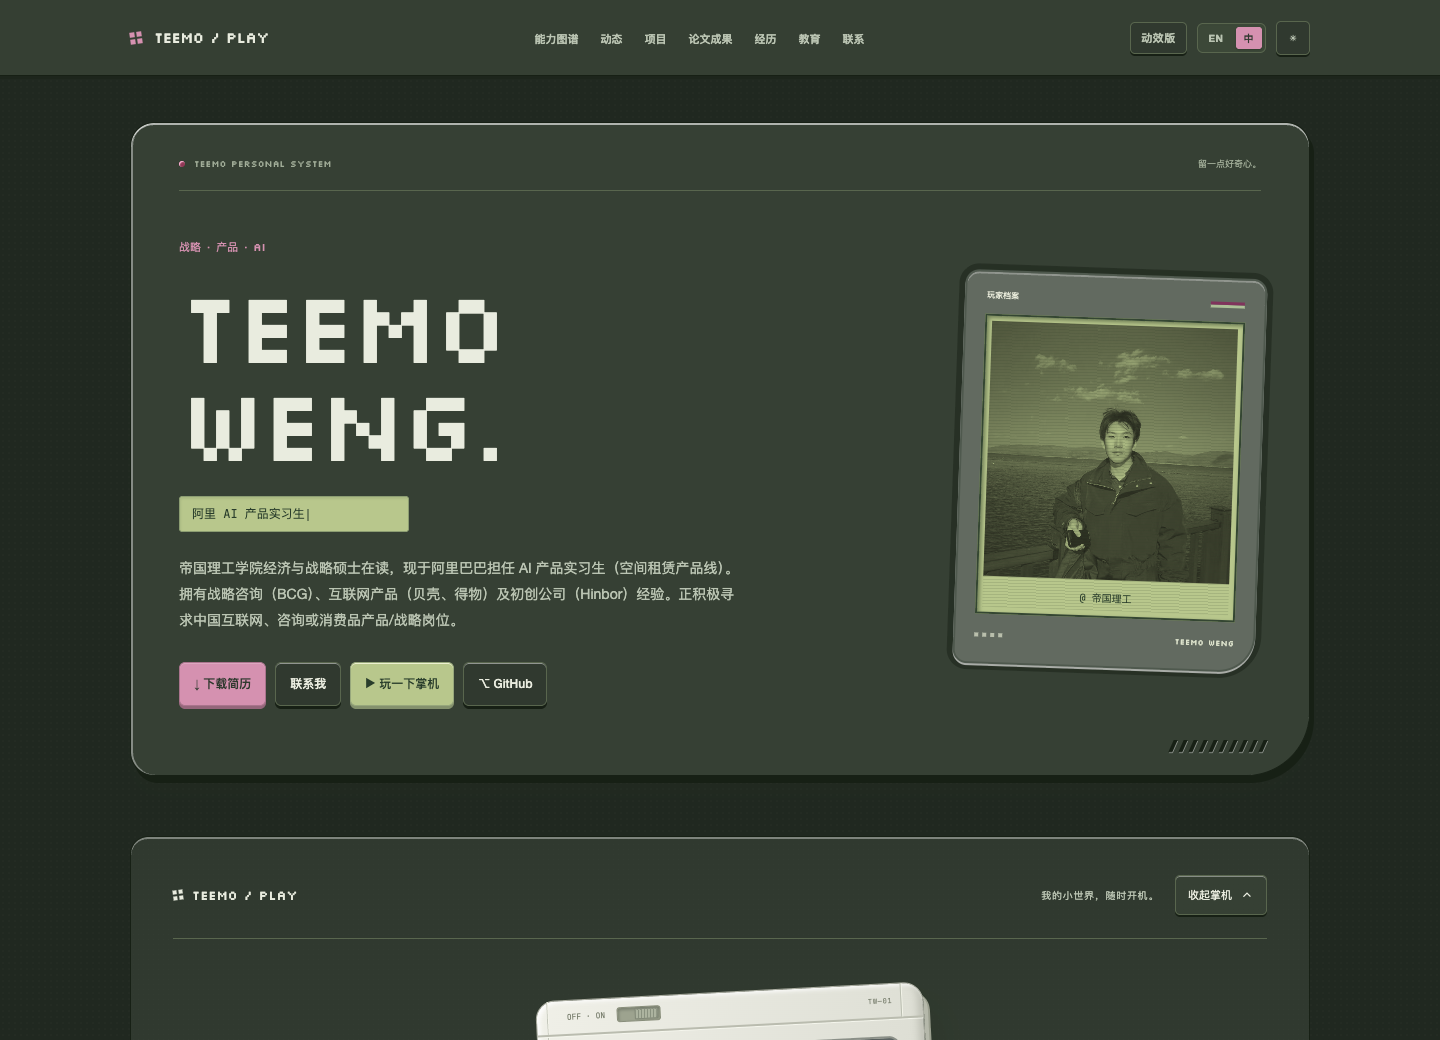
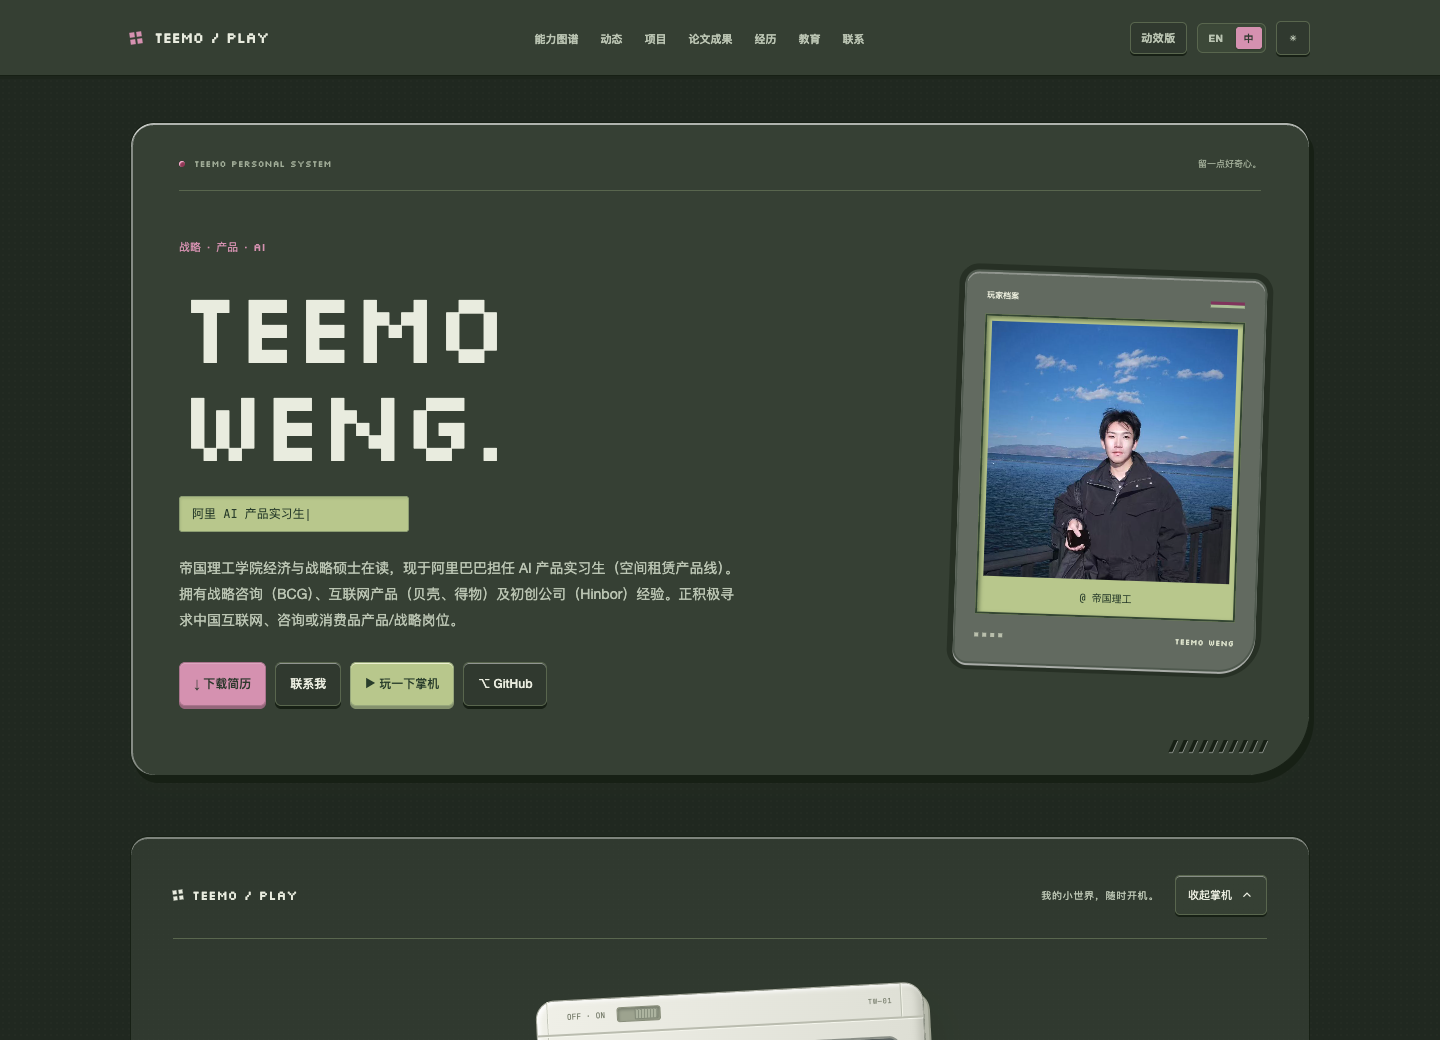
fix: preserve original portrait colors in pocket review

Changed region(s): [[0.6562, 0.3077, 0.875, 0.5538]]

diff --git a/index.html b/index.html
@@ -1131,9 +1131,9 @@ footer span { color: var(--accent); }
 .pocket-homepage .profile-caption{display:flex;align-items:center;justify-content:space-between;gap:12px;padding:0 1px 13px;color:#eef0df;font:8px var(--pixel)}
 .pocket-homepage .profile-caption i{width:34px;height:3px;background:#80345c;box-shadow:0 3px 0 #adc198}
 .pocket-homepage .avatar-wrap{width:100%;height:auto;padding:5px;background:var(--lcd);border:2px solid #344632;box-shadow:inset 2px 2px 4px #17251570;border-radius:0;overflow:hidden}
-.pocket-homepage .avatar-wrap::before{inset:5px;z-index:1;pointer-events:none;border:0;border-radius:0;animation:none;opacity:.14;background:repeating-linear-gradient(0deg,#33422b 0 1px,transparent 1px 3px)}
+.pocket-homepage .avatar-wrap::before{display:none}
 .pocket-homepage .avatar-wrap::after{display:none}
-.pocket-homepage .avatar-wrap img{display:block;width:100%;height:255px;border-radius:0;border:0;object-fit:cover;filter:grayscale(1);mix-blend-mode:multiply;opacity:.82}
+.pocket-homepage .avatar-wrap img{display:block;width:100%;height:255px;border-radius:0;border:0;object-fit:cover;filter:none;mix-blend-mode:normal;opacity:1}
 .pocket-homepage .avatar-badge{position:relative;bottom:auto;right:auto;z-index:2;background:transparent;color:var(--lcd-ink);border-radius:0;padding:11px 5px 6px;white-space:normal;font:10px 'JetBrains Mono','PingFang SC',monospace;text-align:center}
 .pocket-homepage .profile-grille{display:flex;align-items:center;gap:4px;margin-top:16px;color:#dee4cd}
 .pocket-homepage .profile-grille i{width:4px;height:4px;background:currentColor;opacity:.7}

diff --git a/docs/pocket-system-review.md b/docs/pocket-system-review.md
@@ -12,11 +12,11 @@
 
 - 颜色：灰绿底色 `#e6e7df`、奶油灰机身 `#eeeee4`、墨绿文字 `#27352c`、LCD 绿 `#b8c78c`、屏幕墨色 `#293d2b`、紫红按键 `#80345c`。深色模式沿用相同材料关系。
 - 字体：自托管 Silkscreen 用于姓名、品牌及少量短标签；正文使用清楚的系统中英文字体，长文不使用像素字体。
-- 布局：首屏机身面板内左侧介绍、右侧 LCD 档案照，四个操作按钮保持一行。移动端依次展示介绍与档案照。
+- 布局：首屏机身面板内左侧介绍、右侧原色照片置于掌机相框，四个操作按钮保持一行。移动端依次展示介绍与照片。照片已去掉滤镜和扫描线，保留掌机外框。
 - 材质：项目采用卡带与封面屏幕；能力图谱保留独立翻转，以控制器面板表达；动态、经历和教育以日志与时间顺序展开；工具与联系区以键帽及输入面板组织。
 - 动效：保留掌机平滑展开/收起和按钮反馈。背景不再运行粒子动画；减少动态效果模式下身份文字也直接显示。
 
-整站的辨识度集中在像素姓名、LCD 档案照与实体掌机，其余区域控制装饰密度，不新增游戏等级、能力分数或业绩数字。
+整站的辨识度集中在像素姓名、原色照片的掌机相框与实体掌机，其余区域控制装饰密度，不新增游戏等级、能力分数或业绩数字。
 
 ## 保留的行为与内容
 
